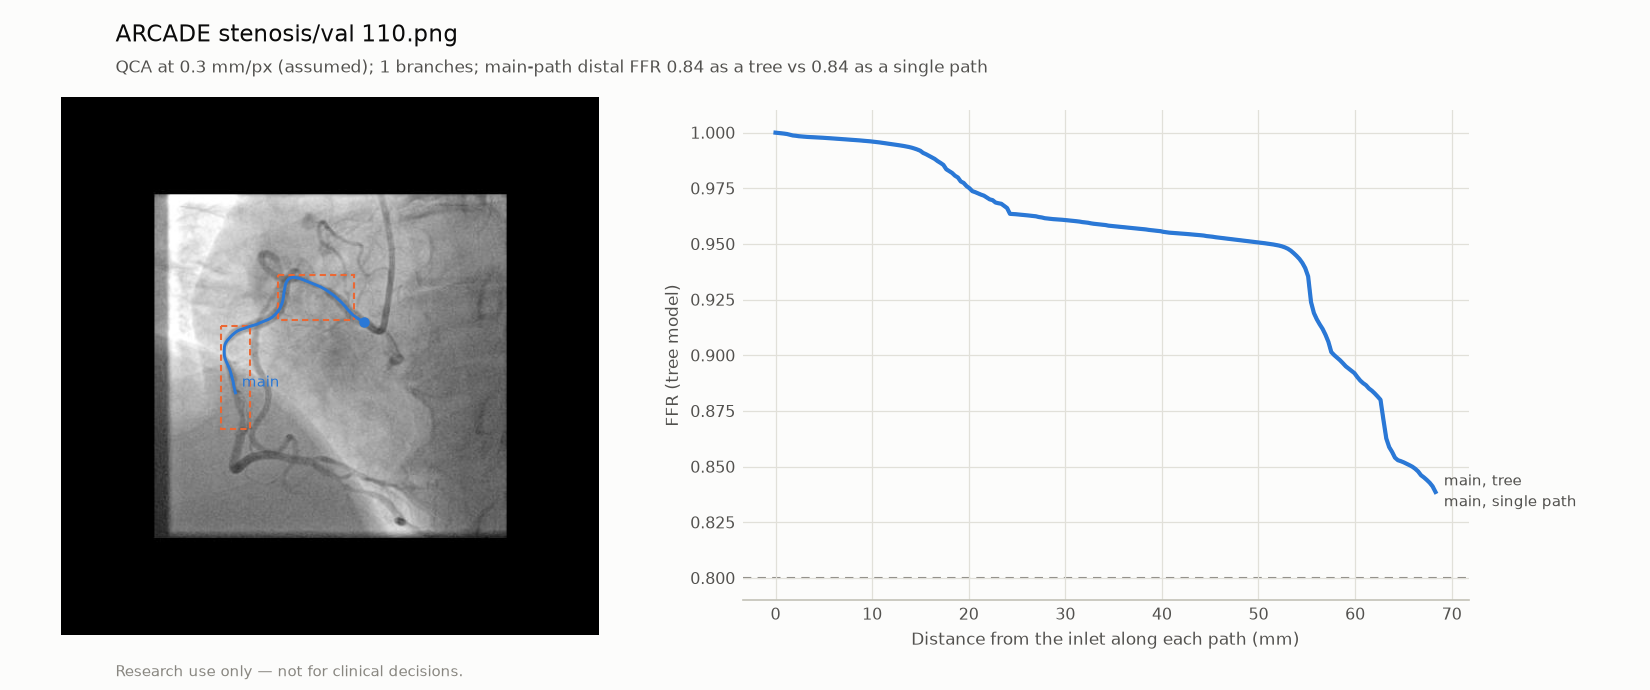
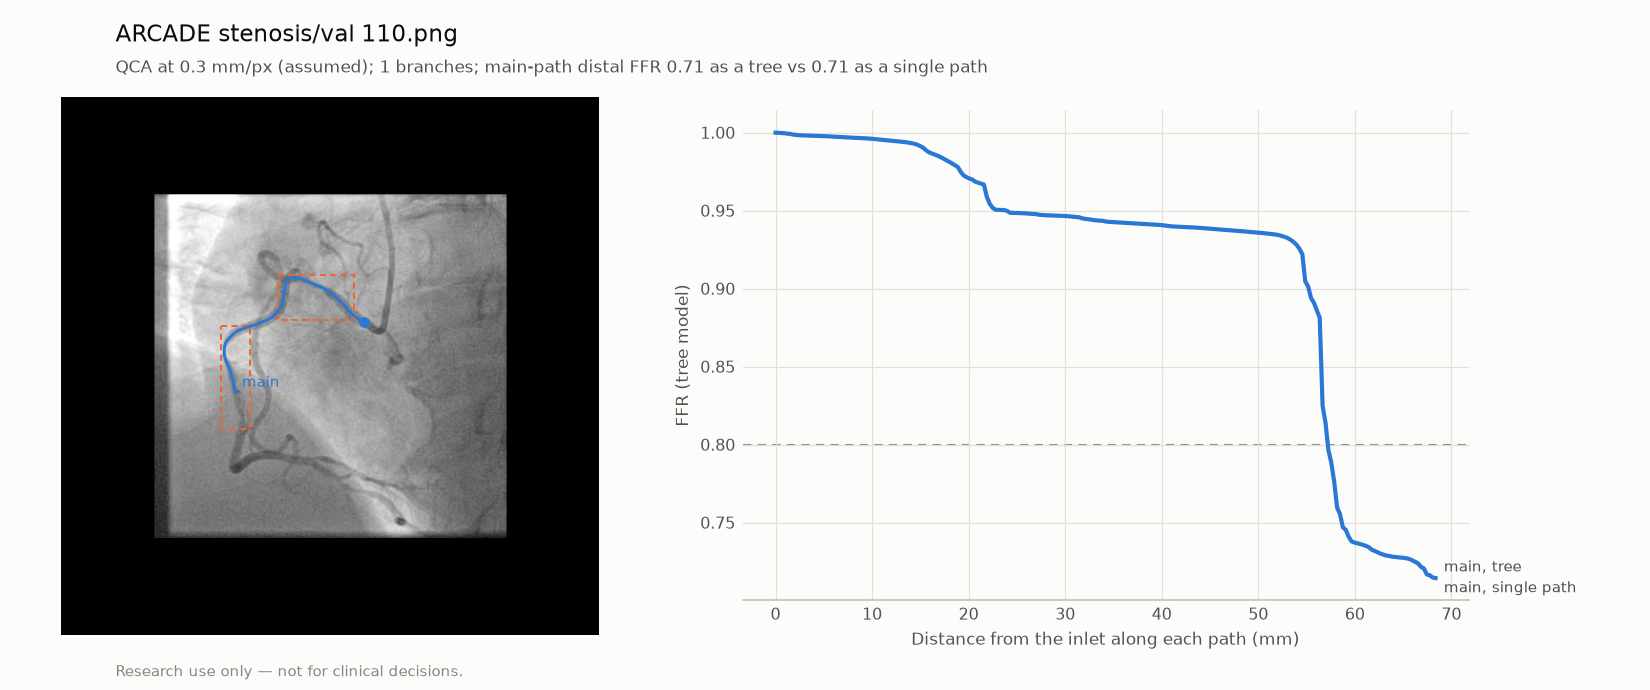
P4c: ARCADE tree gallery regenerated (intensity edges, D43 + D45)

diff --git a/reports/qca_tree_gallery.md b/reports/qca_tree_gallery.md
@@ -4,43 +4,45 @@
 
 Generated by `vstent qca-gallery --tree`. Do not edit by hand.
 
-The images and auto-selected paths of `reports/qca_gallery.md`. The side branches leaving the path are measured too (docs/PHYSICS.md, *Vessel trees*), and FFR comes from the tree solver. *Single path* is the main path alone with the single-vessel solver, the same value as the solver column in the single-path gallery. Pixel size 0.30 mm/px assumed. There is no ground truth: this checks that the side-branch effect behaves plausibly. It is not a validation.
+The images and auto-selected paths of `reports/qca_gallery.md`. The side branches leaving the path are measured too (docs/PHYSICS.md, *Vessel trees*), and FFR comes from the tree solver. *Single path* is the main path alone with the single-vessel solver, the same value as the solver column in the single-path gallery. Lumen edges from the image intensity, guided by the segmentation (D43). Pixel size 0.30 mm/px assumed. There is no ground truth: this checks that the side-branch effect behaves plausibly. It is not a validation.
 
 **What limits it.** The segmentation model was trained on ARCADE's SYNTAX-segment masks, which leave smaller side branches unannotated. It therefore rarely segments them, so most trees have few side branches and their flow stays in the main path. Lowering the probability threshold does not help: on the first 10 images the skeleton had the same junctions at 0.5, 0.3 and 0.1. The automatic start point (the wider end of the longest path) is not always the ostium. When it is not, the vessel leading to the true inlet becomes a "side branch" and the flow direction is wrong (e.g. val_107). In the app and `vstent analyse` the user sets the start point.
 
-- Analysed: 20 of 20; with at least one side branch: 14 (24 side branches; 10 further side paths too short, too thin or too deep to model).
-- Median change of main-path distal FFR where side branches were found: +0.149.
-- Implausibly low main-path FFR (< 0.30 without a lesion of ≥ 70% DS): 3 as single paths, 3 as trees.
+- Analysed: 20 of 20; with at least one side branch: 14 (24 side branches; 13 further side paths too short, too thin or too deep to model).
+- Median change of main-path distal FFR where side branches were found: +0.130.
+- Implausibly low main-path FFR (< 0.30 without a lesion of ≥ 70% DS): 5 as single paths, 4 as trees.
 
 | Image | Main path (mm) | Max DS (%) | Side branches | FFR single path | FFR tree | Change | Inflow reaching the main outlet | Side outlet FFR |
 |---|---|---|---|---|---|---|---|---|
-| [val_1](figures/qca_tree_examples/val_1.png) | 161 | 65 | 0 | 0.29 ⚠ | 0.29 | +0.00 | 100% | — |
-| [val_10](figures/qca_tree_examples/val_10.png) | 109 | 31 | 1 | 0.06 ⚠ | 0.06 | +0.00 | 65% | 0.54 |
-| [val_100](figures/qca_tree_examples/val_100.png) | 198 | 45 | 1 | 0.82 | 0.87 | +0.05 | 65% | 0.66 |
-| [val_101](figures/qca_tree_examples/val_101.png) | 125 | 42 | 0 | 0.70 | 0.70 | +0.00 | 100% | — |
-| [val_102](figures/qca_tree_examples/val_102.png) | 243 | 63 | 1 | 0.64 | 0.64 | +0.00 | 100% | 0.72 |
-| [val_103](figures/qca_tree_examples/val_103.png) | 161 | 43 | 0 | 0.49 | 0.49 | +0.00 | 100% | — |
-| [val_104](figures/qca_tree_examples/val_104.png) | 265 | 57 | 3 | 0.81 | 0.96 | +0.16 | 4% | 0.97, 0.91, 0.97 |
-| [val_105](figures/qca_tree_examples/val_105.png) | 177 | 45 | 0 | 0.83 | 0.83 | +0.00 | 100% | — |
-| [val_106](figures/qca_tree_examples/val_106.png) | 148 | 78 | 1 | 0.25 | 0.43 | +0.17 | 12% | 0.47 |
-| [val_107](figures/qca_tree_examples/val_107.png) | 139 | 84 | 2 | 0.21 | 0.75 | +0.54 | 4% | 0.78, 0.79 |
-| [val_108](figures/qca_tree_examples/val_108.png) | 198 | 31 | 1 | 0.60 | 0.79 | +0.19 | 45% | 0.89 |
-| [val_109](figures/qca_tree_examples/val_109.png) | 179 | 30 | 2 | 0.78 | 0.96 | +0.18 | 15% | 0.93, 0.99 |
-| [val_11](figures/qca_tree_examples/val_11.png) | 151 | 21 | 2 | 0.77 | 0.90 | +0.13 | 36% | 0.88, 0.86 |
-| [val_110](figures/qca_tree_examples/val_110.png) | 68 | 51 | 0 | 0.84 | 0.84 | +0.00 | 100% | — |
-| [val_111](figures/qca_tree_examples/val_111.png) | 242 | 58 | 2 | 0.32 | 0.50 | +0.17 | 41% | 0.67, 0.70 |
-| [val_112](figures/qca_tree_examples/val_112.png) | 142 | 43 | 1 | 0.76 | 0.84 | +0.08 | 58% | 0.88 |
-| [val_113](figures/qca_tree_examples/val_113.png) | 159 | 64 | 1 | 0.55 | 0.69 | +0.14 | 30% | 0.78 |
-| [val_114](figures/qca_tree_examples/val_114.png) | 151 | 37 | 0 | 0.06 ⚠ | 0.06 | +0.00 | 100% | — |
-| [val_115](figures/qca_tree_examples/val_115.png) | 174 | 69 | 2 | 0.37 | 0.48 | +0.11 | 44% | 0.75, 0.55 |
-| [val_116](figures/qca_tree_examples/val_116.png) | 229 | 54 | 4 | 0.48 | 0.76 | +0.28 | 1% | 0.73, 0.76, 0.77, 0.76 |
+| [val_1](figures/qca_tree_examples/val_1.png) | 161 | 77 | 0 | 0.17 | 0.17 | +0.00 | 100% | — |
+| [val_10](figures/qca_tree_examples/val_10.png) | 110 | 32 | 1 | 0.06 ⚠ | 0.06 | +0.00 | 62% | 0.46 |
+| [val_100](figures/qca_tree_examples/val_100.png) | 199 | 59 | 1 | 0.59 | 0.67 | +0.08 | 60% | 0.58 |
+| [val_101](figures/qca_tree_examples/val_101.png) | 125 | 59 | 0 | 0.38 | 0.38 | +0.00 | 100% | — |
+| [val_102](figures/qca_tree_examples/val_102.png) | 243 | 56 | 1 | 0.57 | 0.57 | +0.00 | 100% | 0.74 |
+| [val_103](figures/qca_tree_examples/val_103.png) | 162 | 58 | 0 | 0.26 ⚠ | 0.26 | +0.00 | 100% | — |
+| [val_104](figures/qca_tree_examples/val_104.png) | 265 | 52 | 3 | 0.76 | 0.96 | +0.20 | 2% | 0.96, 0.88, 0.96 |
+| [val_105](figures/qca_tree_examples/val_105.png) | 177 | 58 | 0 | 0.69 | 0.69 | +0.00 | 100% | — |
+| [val_106](figures/qca_tree_examples/val_106.png) | 148 | 78 | 1 | 0.24 | 0.33 | +0.08 | 18% | 0.41 |
+| [val_107](figures/qca_tree_examples/val_107.png) | 138 | 85 | 2 | 0.19 | 0.68 | +0.49 | 5% | 0.74, 0.74 |
+| [val_108](figures/qca_tree_examples/val_108.png) | 198 | 67 | 1 | 0.26 ⚠ | 0.43 | +0.17 | 33% | 0.84 |
+| [val_109](figures/qca_tree_examples/val_109.png) | 179 | 50 | 2 | 0.66 | 0.93 | +0.27 | 17% | 0.88, 0.99 |
+| [val_11](figures/qca_tree_examples/val_11.png) | 152 | 39 | 2 | 0.51 | 0.82 | +0.31 | 33% | 0.66, 0.83 |
+| [val_110](figures/qca_tree_examples/val_110.png) | 68 | 56 | 0 | 0.71 | 0.71 | +0.00 | 100% | — |
+| [val_111](figures/qca_tree_examples/val_111.png) | 242 | 70 | 2 | 0.18 ⚠ | 0.28 | +0.09 | 28% | 0.44, 0.55 |
+| [val_112](figures/qca_tree_examples/val_112.png) | 143 | 58 | 1 | 0.49 | 0.55 | +0.06 | 65% | 0.69 |
+| [val_113](figures/qca_tree_examples/val_113.png) | 159 | 67 | 2 | 0.36 | 0.54 | +0.18 | 26% | 0.61, 0.69 |
+| [val_114](figures/qca_tree_examples/val_114.png) | 151 | 42 | 0 | 0.06 ⚠ | 0.06 | +0.00 | 100% | — |
+| [val_115](figures/qca_tree_examples/val_115.png) | 174 | 67 | 1 | 0.32 | 0.37 | +0.04 | 61% | 0.51 |
+| [val_116](figures/qca_tree_examples/val_116.png) | 229 | 50 | 4 | 0.57 | 0.84 | +0.27 | 0% | 0.82, 0.84, 0.84, 0.84 |
 
 ## Implausibly low single-path FFR, before and after
 
-- val_1: 0.29 → 0.29 with 0 side branch(es); main path 161 mm, max DS 65%. No side branch was segmented, so the tree cannot change it: the long path tapering into thin distal vessels still carries the full inflow.
-- val_10: 0.06 → 0.06 with 1 side branch(es); main path 109 mm, max DS 31%.
-- val_114: 0.06 → 0.06 with 0 side branch(es); main path 151 mm, max DS 37%. No side branch was segmented, so the tree cannot change it: the long path tapering into thin distal vessels still carries the full inflow.
+- val_10: 0.06 → 0.06 with 1 side branch(es); main path 110 mm, max DS 32%.
+- val_103: 0.26 → 0.26 with 0 side branch(es); main path 162 mm, max DS 58%. No side branch was segmented, so the tree cannot change it: the long path tapering into thin distal vessels still carries the full inflow.
+- val_108: 0.26 → 0.43 with 1 side branch(es); main path 198 mm, max DS 67%.
+- val_111: 0.18 → 0.28 with 2 side branch(es); main path 242 mm, max DS 70%.
+- val_114: 0.06 → 0.06 with 0 side branch(es); main path 151 mm, max DS 42%. No side branch was segmented, so the tree cannot change it: the long path tapering into thin distal vessels still carries the full inflow.
 
 ⚠ = implausibly low as a single path. Figures: dotted lines would show a virtual stent (none here); the dashed orange line is the main path as a single vessel.
 
-Segmentation model `models/seg/seg_unet_r34-20261028-141743`. Commit `93298bf70eeb743e2e81d87326628b631005f051` (dirty: False), 2026-10-30T16:14:35+00:00.
+Segmentation model `models/seg/seg_unet_r34-20261028-141743`. Commit `cf0f038bdc64b763ba7c7ac51d56ef1b1fd4df5b` (dirty: False), 2026-10-31T20:37:21+00:00.
